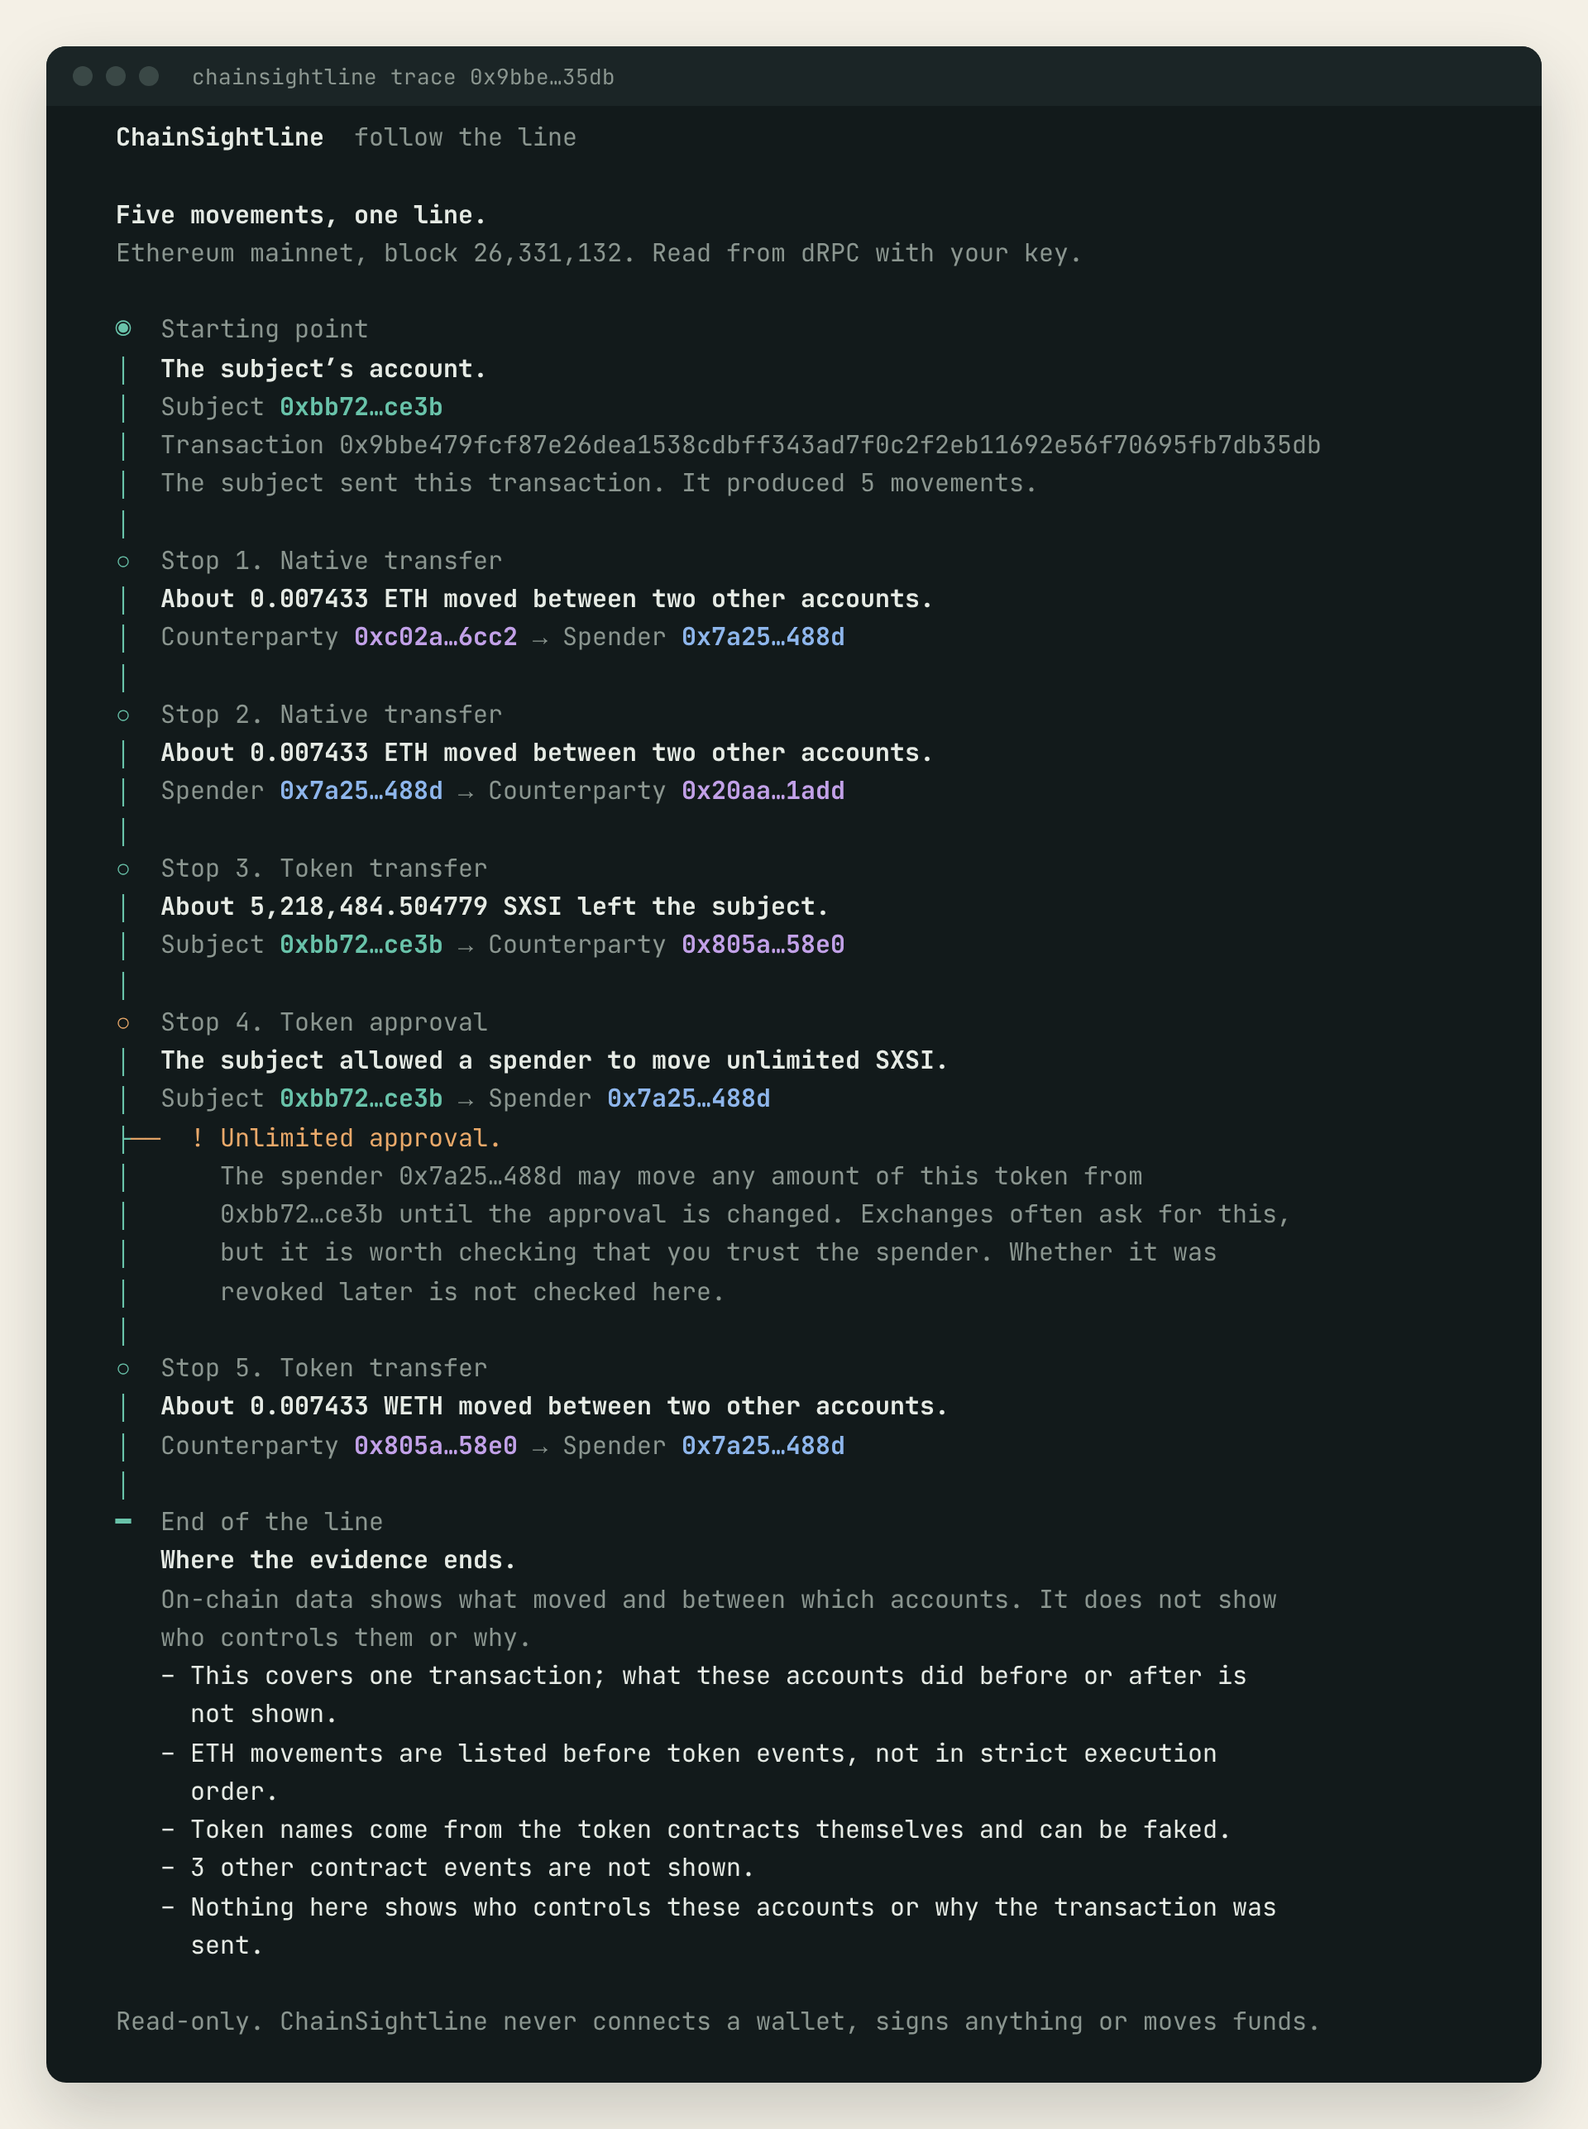
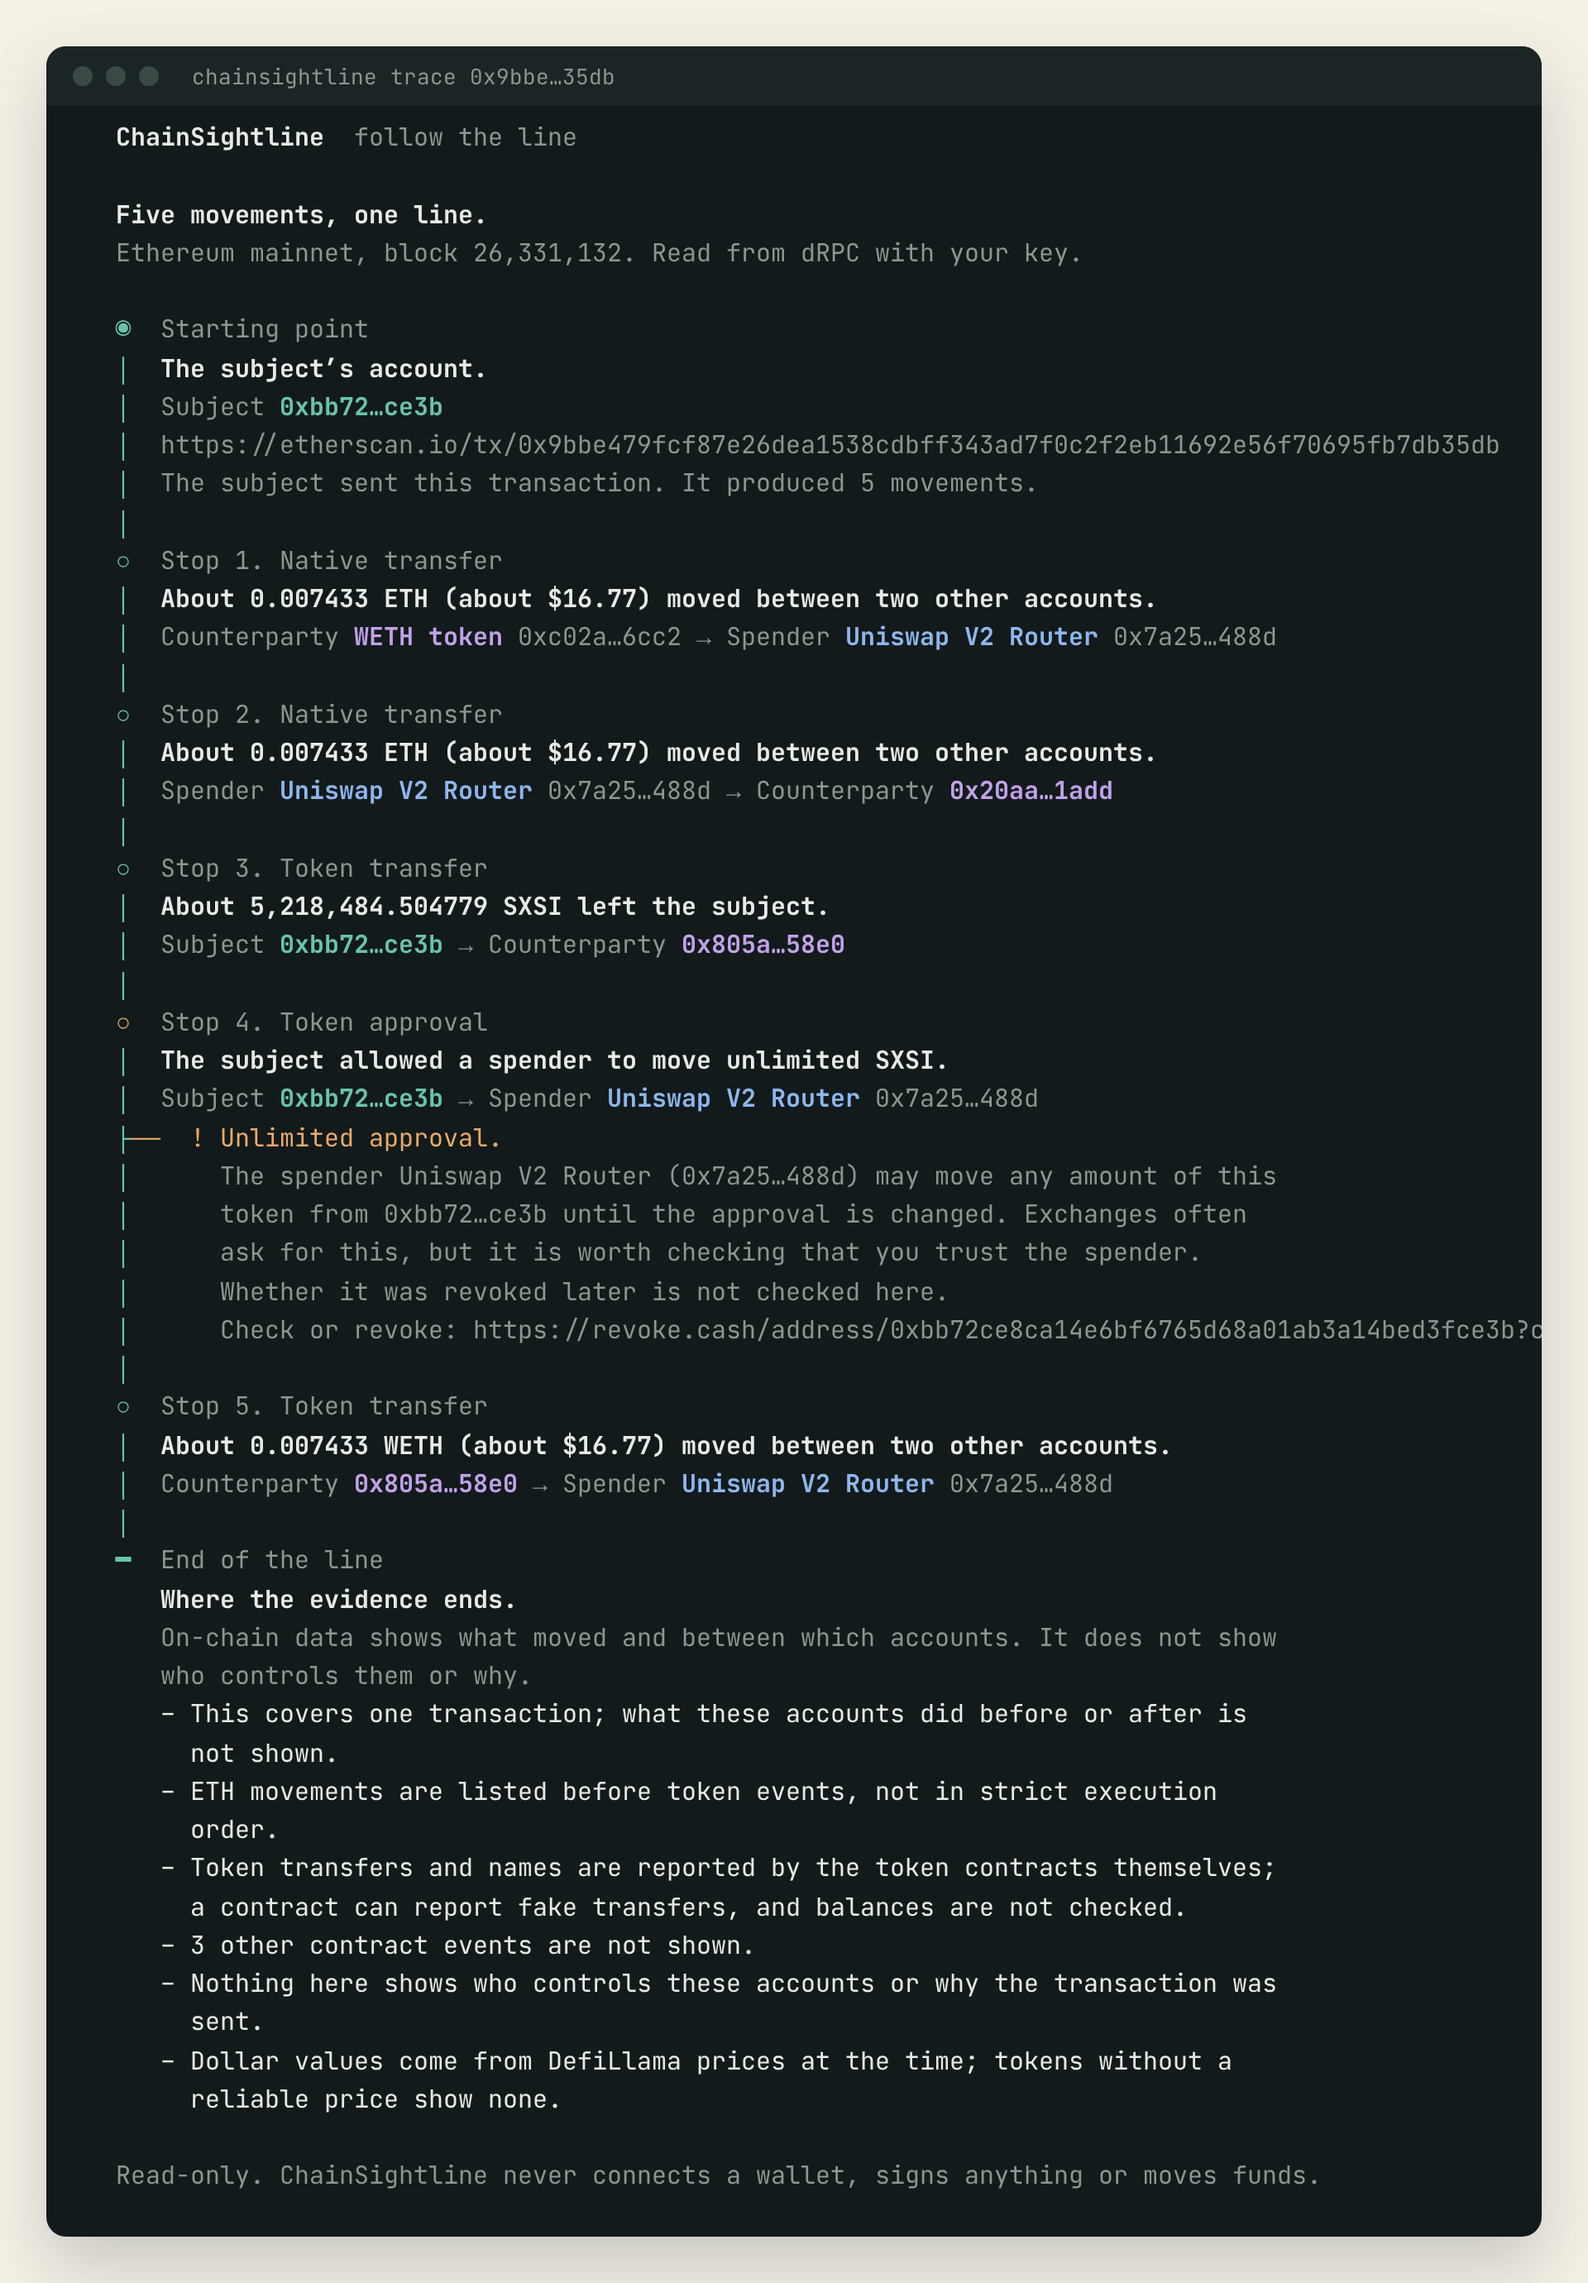
docs: explain warnings, names, prices and what leaves your computer

diff --git a/README.md b/README.md
@@ -94,12 +94,16 @@ flowchart LR
 
 1. You paste an address or transaction hash. It is checked before anything else happens.
 2. ChainSightline asks a data provider for the transaction, its receipt, its block and its call trace. Your own key is used first; if it fails, dRPC's free public access takes over. For an address, Alchemy returns its 20 most recent transfers.
-3. Each movement becomes a stop with a plain sentence such as "0.42 ETH left the subject", plus the two addresses colour-coded and labelled by role. ETH sent with the transaction, ETH moved between contracts inside it, token and NFT transfers, and approvals are all included. Token names are read from the token contracts.
-4. Rules attach warnings to the stop they concern. Today that means unlimited token approvals and collection-wide NFT approvals. A warning is a reason to look closer, never a verdict.
+3. Each movement becomes a stop with a plain sentence such as "0.42 ETH left the subject", plus the two addresses colour-coded and labelled by role. ETH sent with the transaction, ETH moved between contracts inside it, token and NFT transfers, and approvals are all included. Token names are read from the token contracts. Addresses show their ENS name or a known label (exchanges, routers, major tokens) next to the hash, and amounts show their dollar value from DefiLlama.
+4. Rules attach warnings to the stop they concern: unlimited and collection-wide approvals (with a link to revoke them), lookalike addresses and address poisoning, zero-value transfers planted in someone else's history, fake copies of USDT, USDC, DAI, WETH, WBTC, stETH and ETH, tokens whose names advertise websites, and transfers out of a wallet that the wallet never sent. A warning is a reason to look closer, never a verdict.
 5. The route ends with what is still unknown, such as a missing call trace, hidden events, or movements beyond the first 40, so missing data never reads as safety.
 6. Planned: an AI model (Kimi by default, or any compatible OpenRouter model) explains the route. Its answer must cite the evidence or it is rejected. The adapter is built and tested but not yet wired into the app.
 
+Every stop links to Etherscan so you can check it yourself, and the address bar updates (for example `?tx=0x…`) so you can copy a link that reopens the same investigation in any ChainSightline.
+
 The website and the terminal share the same evidence format and wording, so both always tell the same story.
+
+**What leaves your computer:** the transactions and addresses you look up go to your chain provider (dRPC or Alchemy), and token contract addresses with the block time go to [DefiLlama](https://defillama.com) for prices. Set `CHAINSIGHTLINE_PRICES=off` to turn prices off.
 
 ## Product principles
 
@@ -143,7 +147,8 @@ See the [full architecture](docs/plans/2026-11-02-blockchain-investigation-tool-
 | Live Ethereum investigation | Real transactions without keys; recent address history with Alchemy | Preview working |
 | Easy keys | Paste keys in the website or terminal, checked before saving | Preview working |
 | Branching routes | One address sending to several, shown on the line | Design needed |
-| Signals | Versioned, explainable rules with labelled test cases | Approval rules only |
+| Readable routes | ENS names, known labels, dollar values, Etherscan and revoke.cash links, shareable links | Preview working |
+| Signals | Approvals, address poisoning, fake and spam tokens, unsent transfers | First rules working |
 | Cited AI analysis in the app | Configurable model explanations over frozen evidence | Adapter tested |
 | Private preview | Database, jobs, security, recovery and cost checks | Not started |
 

diff --git a/design_system/open-items.md b/design_system/open-items.md
@@ -9,3 +9,6 @@
 - 2026-11-03: live Ethereum transactions (keyless via dRPC public access) and Alchemy address history are connected. The invented example remains one click away and is labelled.
 - Movements within a transaction are grouped (ETH before token events), not in strict execution order.
 - Branching routes (one address sending to many) still render as a straight list of stops.
+- Names: known labels win over ENS; ENS names must be plain ASCII `.eth` names and the hash is always shown beside any name, so a name can't hide a lookalike address.
+- Dollar values only appear for prices DefiLlama reports with at least 90% confidence; transactions use the price at the time, address history uses today's price.
+- "Not sent by this address" only applies to personal wallets (including EIP-7702 delegated ones), unpriced fungible tokens, so marketplace and exchange pulls are not flagged.
